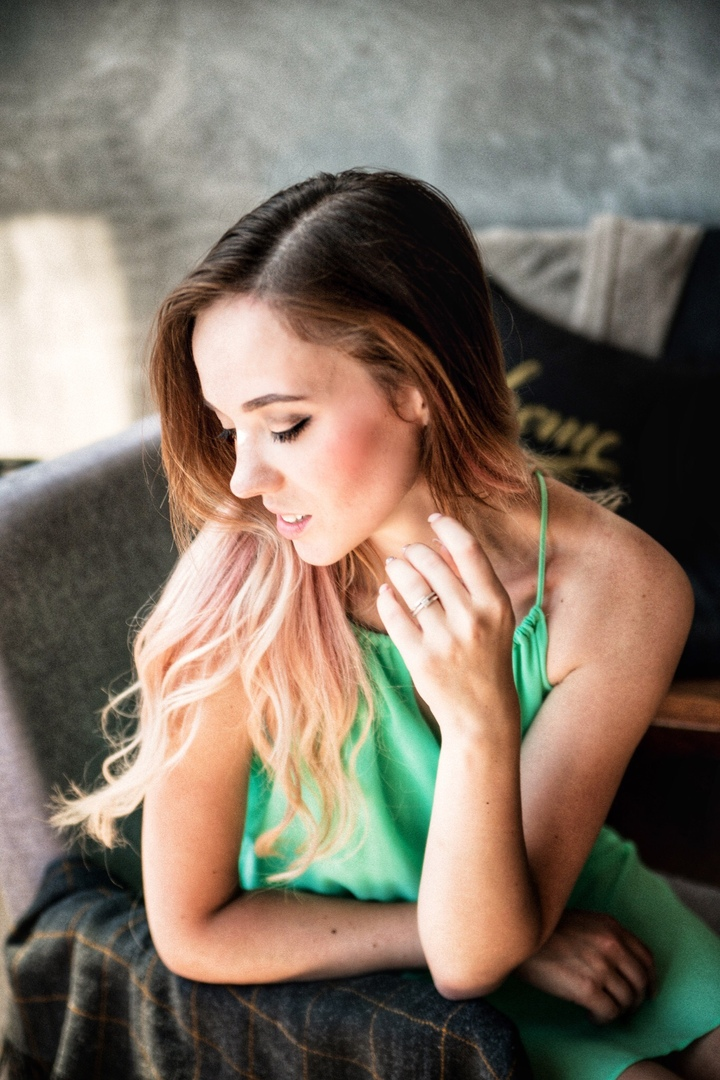
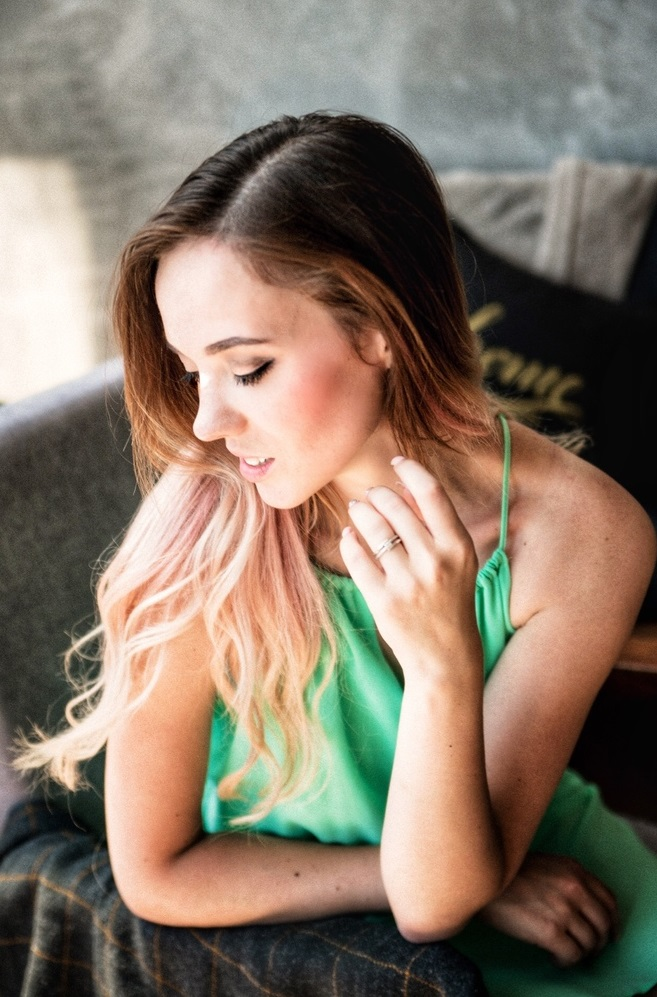
fix: make 1024px format

diff --git a/index.html b/index.html
@@ -16,6 +16,7 @@
     <link rel="stylesheet" href="assets/css/header.min.css">
     <link rel="stylesheet" href="assets/css/main.min.css">
     <link rel="stylesheet" href="assets/libs/bootstrap/bootstrap.min.css">
+    <link rel="stylesheet" href="assets/css/style.css">
 </head>
 <body>
 <div class="loader">
@@ -106,7 +107,7 @@
                             Пишу приложения на JavaScript, с использованием стандарта ES 6, есть базовые знания Webpack и React/Redux. Владею версткой, с использованием HTML/СSS, а также Jade и Bootstrap.
                             Работала с Web Audio API для создания веб-аудиоплеера, а также с шаблонизатором Jekyll.
                             Хорошие знания Сanvas, его изучила при написании веб-игры (с его помощью была реализована генерация юнитов из деталей).
-                            Посмотреть мои работы можно в профиле на <a href="https://github.com/ChernyshovaAlexandra">GitHub</a>.
+                            Посмотреть мои работы можно также в профиле на <a href="https://github.com/ChernyshovaAlexandra">GitHub</a>.
 
                         </p>
                         <h1 class="logoMe">Образование</h1>
@@ -117,6 +118,7 @@
                             и "JavaScript/Jquery". С февраля по август 2018 года проходила курсы <a href="https://school.rollingscopes.com/">RollingScopesSchool</a>. С сентября 2018 года устроилась на работу Frontend разработчиком,
                             занимаюсь версткой и рефакторингом сайта, использую шаблонизатор Jekyll.
                         </p>
+                        <p>English level - B1/B2+</p>
                         <div class="row">
                             <div class="col-md-4">
                                 <ul>
@@ -296,7 +298,7 @@
                 <p>Прошла углубленный курс "Frontend"</p>
             </div>
             <div class="col-md-2">
-                <div class="lineStudy"></div>
+                <div class="lineStudy "></div>
                 <div class="dataStudy">февраль 2018 - август 2018</div>
                 <div class="cobe"></div>
             </div>
@@ -309,8 +311,8 @@
             <div class="col-md-5"></div>
             <div class="col-md-2">
                 <div class="cobe"></div>
-                <div class="lineStudy"></div>
-                <div class="dataStudy qit">сентябрь 2018 - по настоящее время </div>
+                <div class="lineStudy last"></div>
+                <div class="dataStudy qit last_quit">сентябрь 2018 - по настоящее время </div>
             </div>
             <div class="col-md-5 study_post_center">
                 <h2> Frontend developer</h2>

diff --git a/assets/css/style.css b/assets/css/style.css
@@ -1,22 +1,19 @@
-*{
-    padding: 0;
-    margin: 0;
-    box-sizing: border-box;
+.container{
+    width:1024px;
 }
-.wrapper{
-    max-width: 1024px;
-    margin: 0 auto;
-    padding: 20px 0;
+.last{
+    height: 180px !important;
 }
-header.wrapper{
-    display: flex;s
+.last_quit{
+    margin-left: -90px !important;
 }
-.personal-info{
-    display: flex;
-    justify-content: center;
-}
-.main_photo img{
-    max-width:100px;
-    border-radius: 10px;
-    border: 2px solid gray;
+.circle,
+.circle1,
+.circle2,
+.circle3,
+.circle4,
+.circle5,
+.circle6{
+    margin-top: -100px!important;
+    margin-left: -35px!important;
 }

diff --git a/send.php b/send.php
@@ -1,4 +1,4 @@
- <?php
+  <?php
 
     define("CONTACT_FORM", 'n.ragozin@inbox.ru');
 
